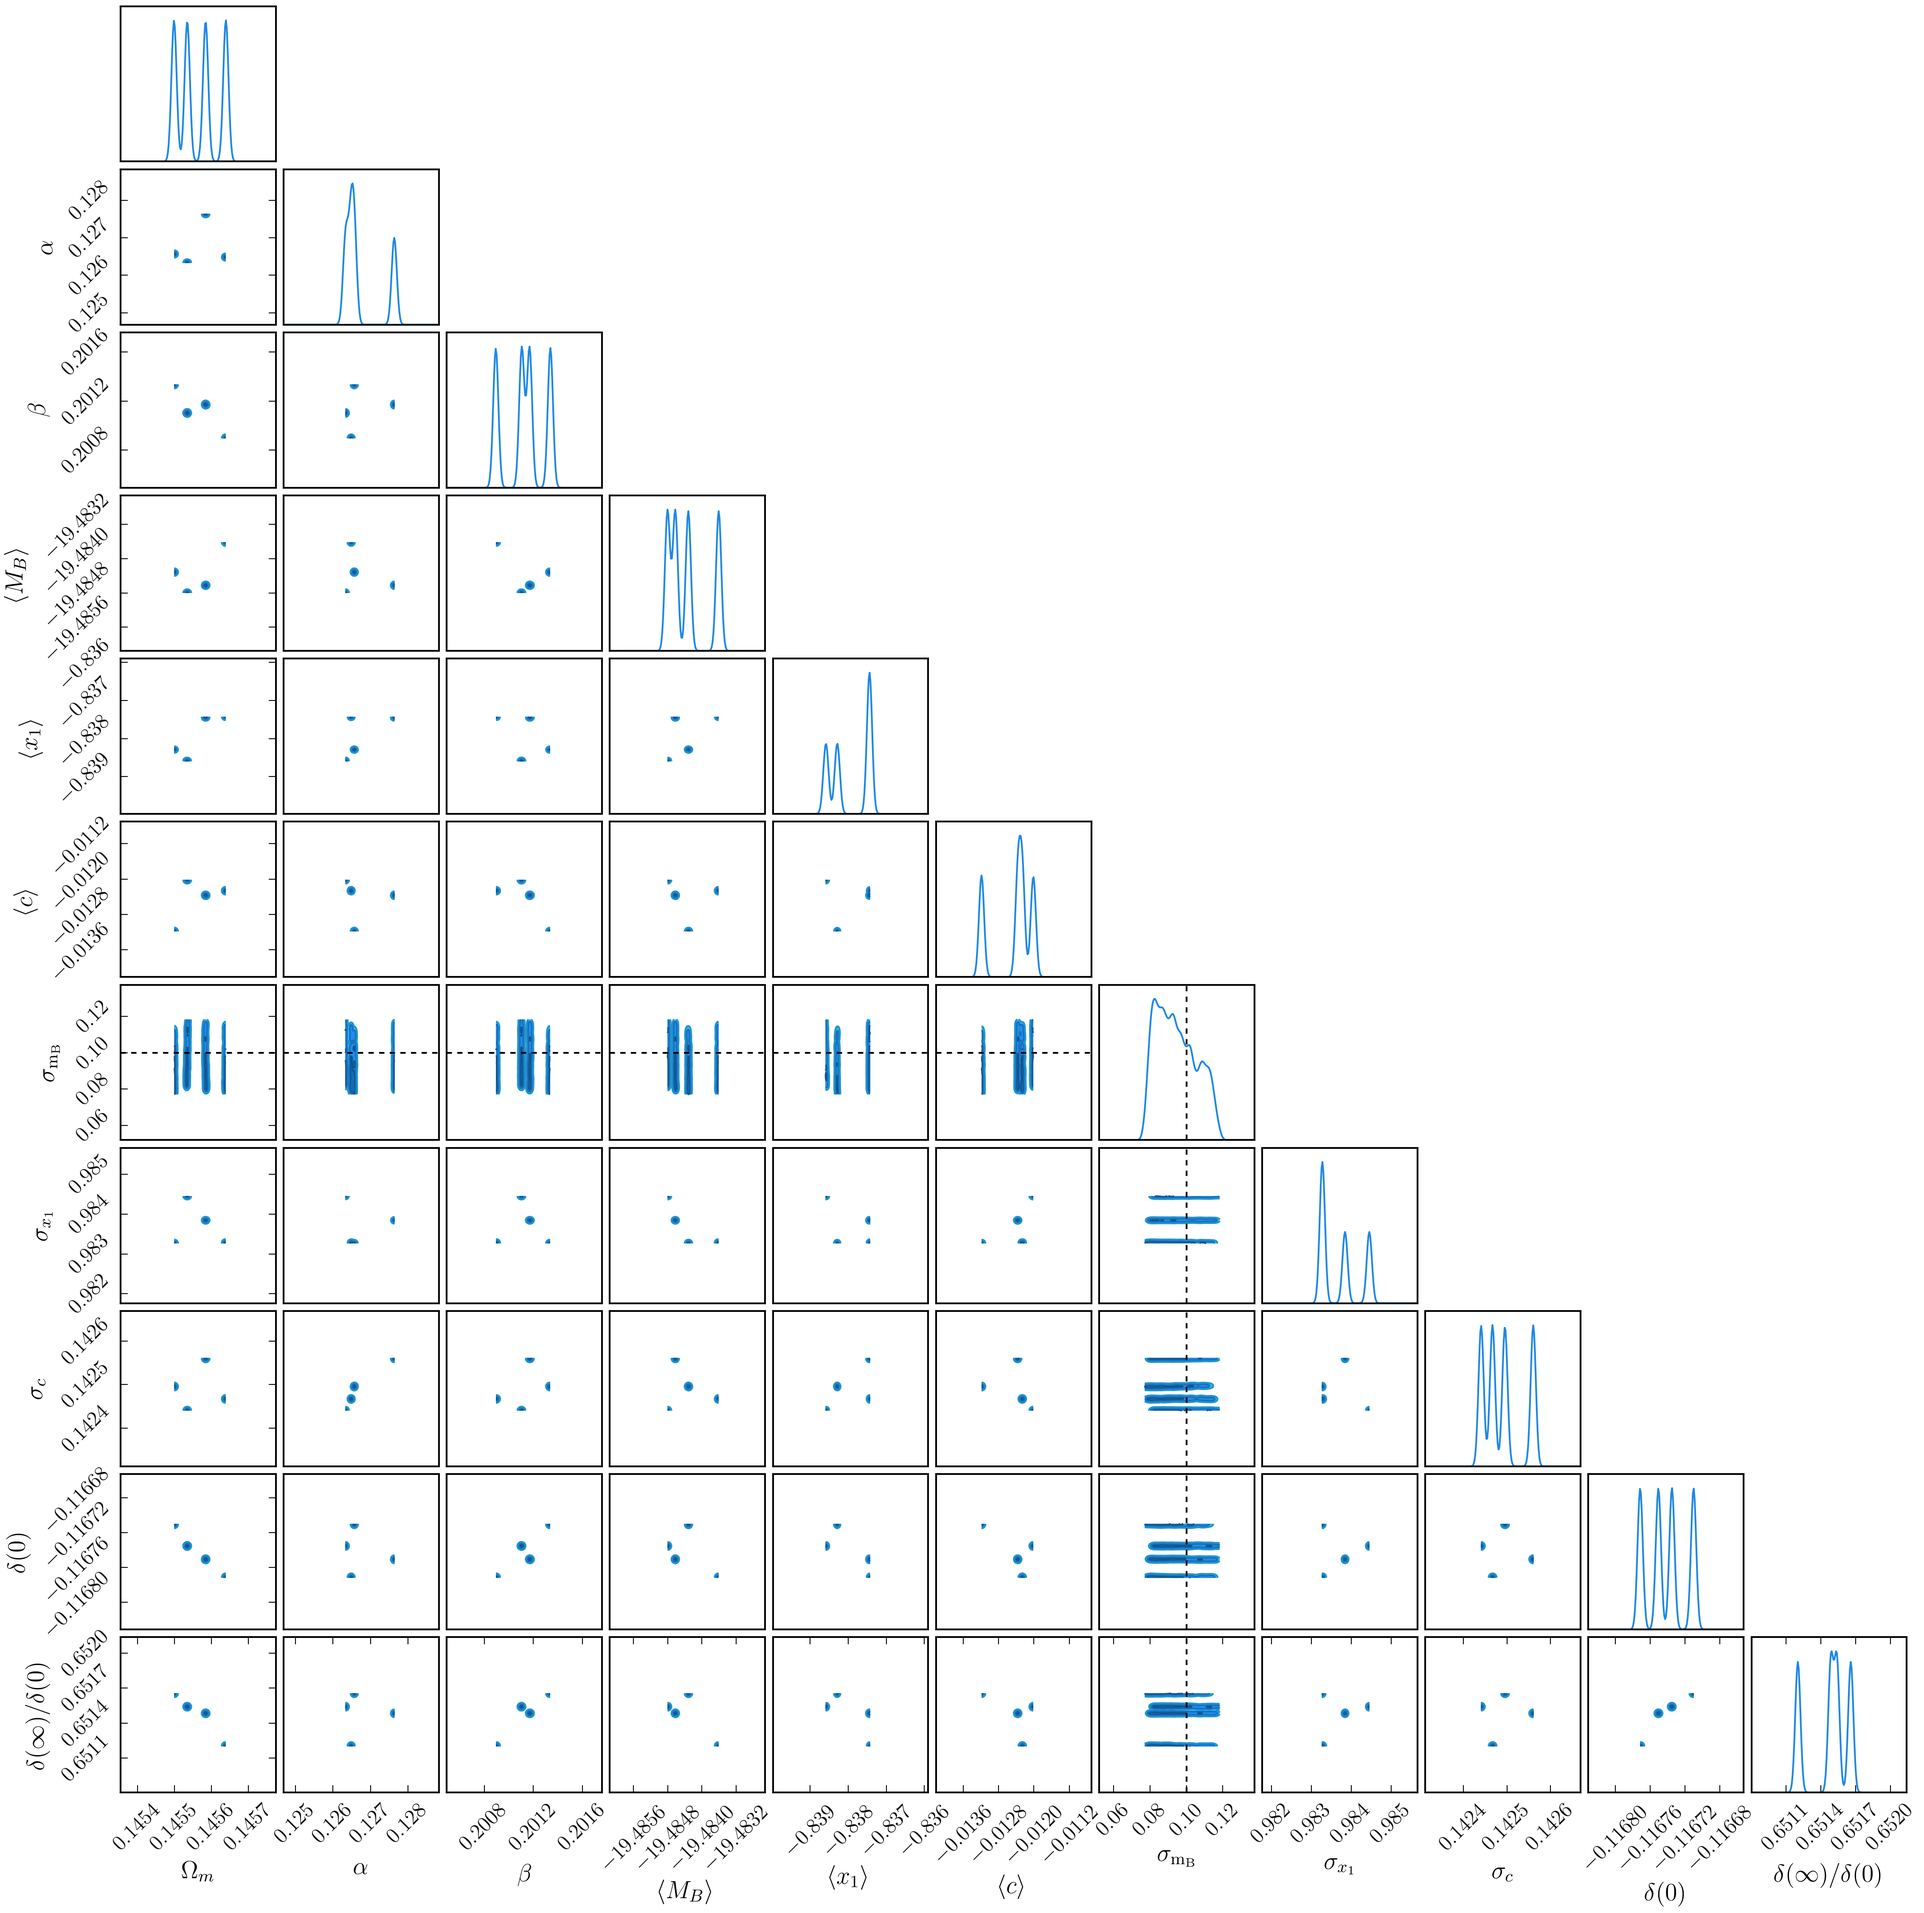
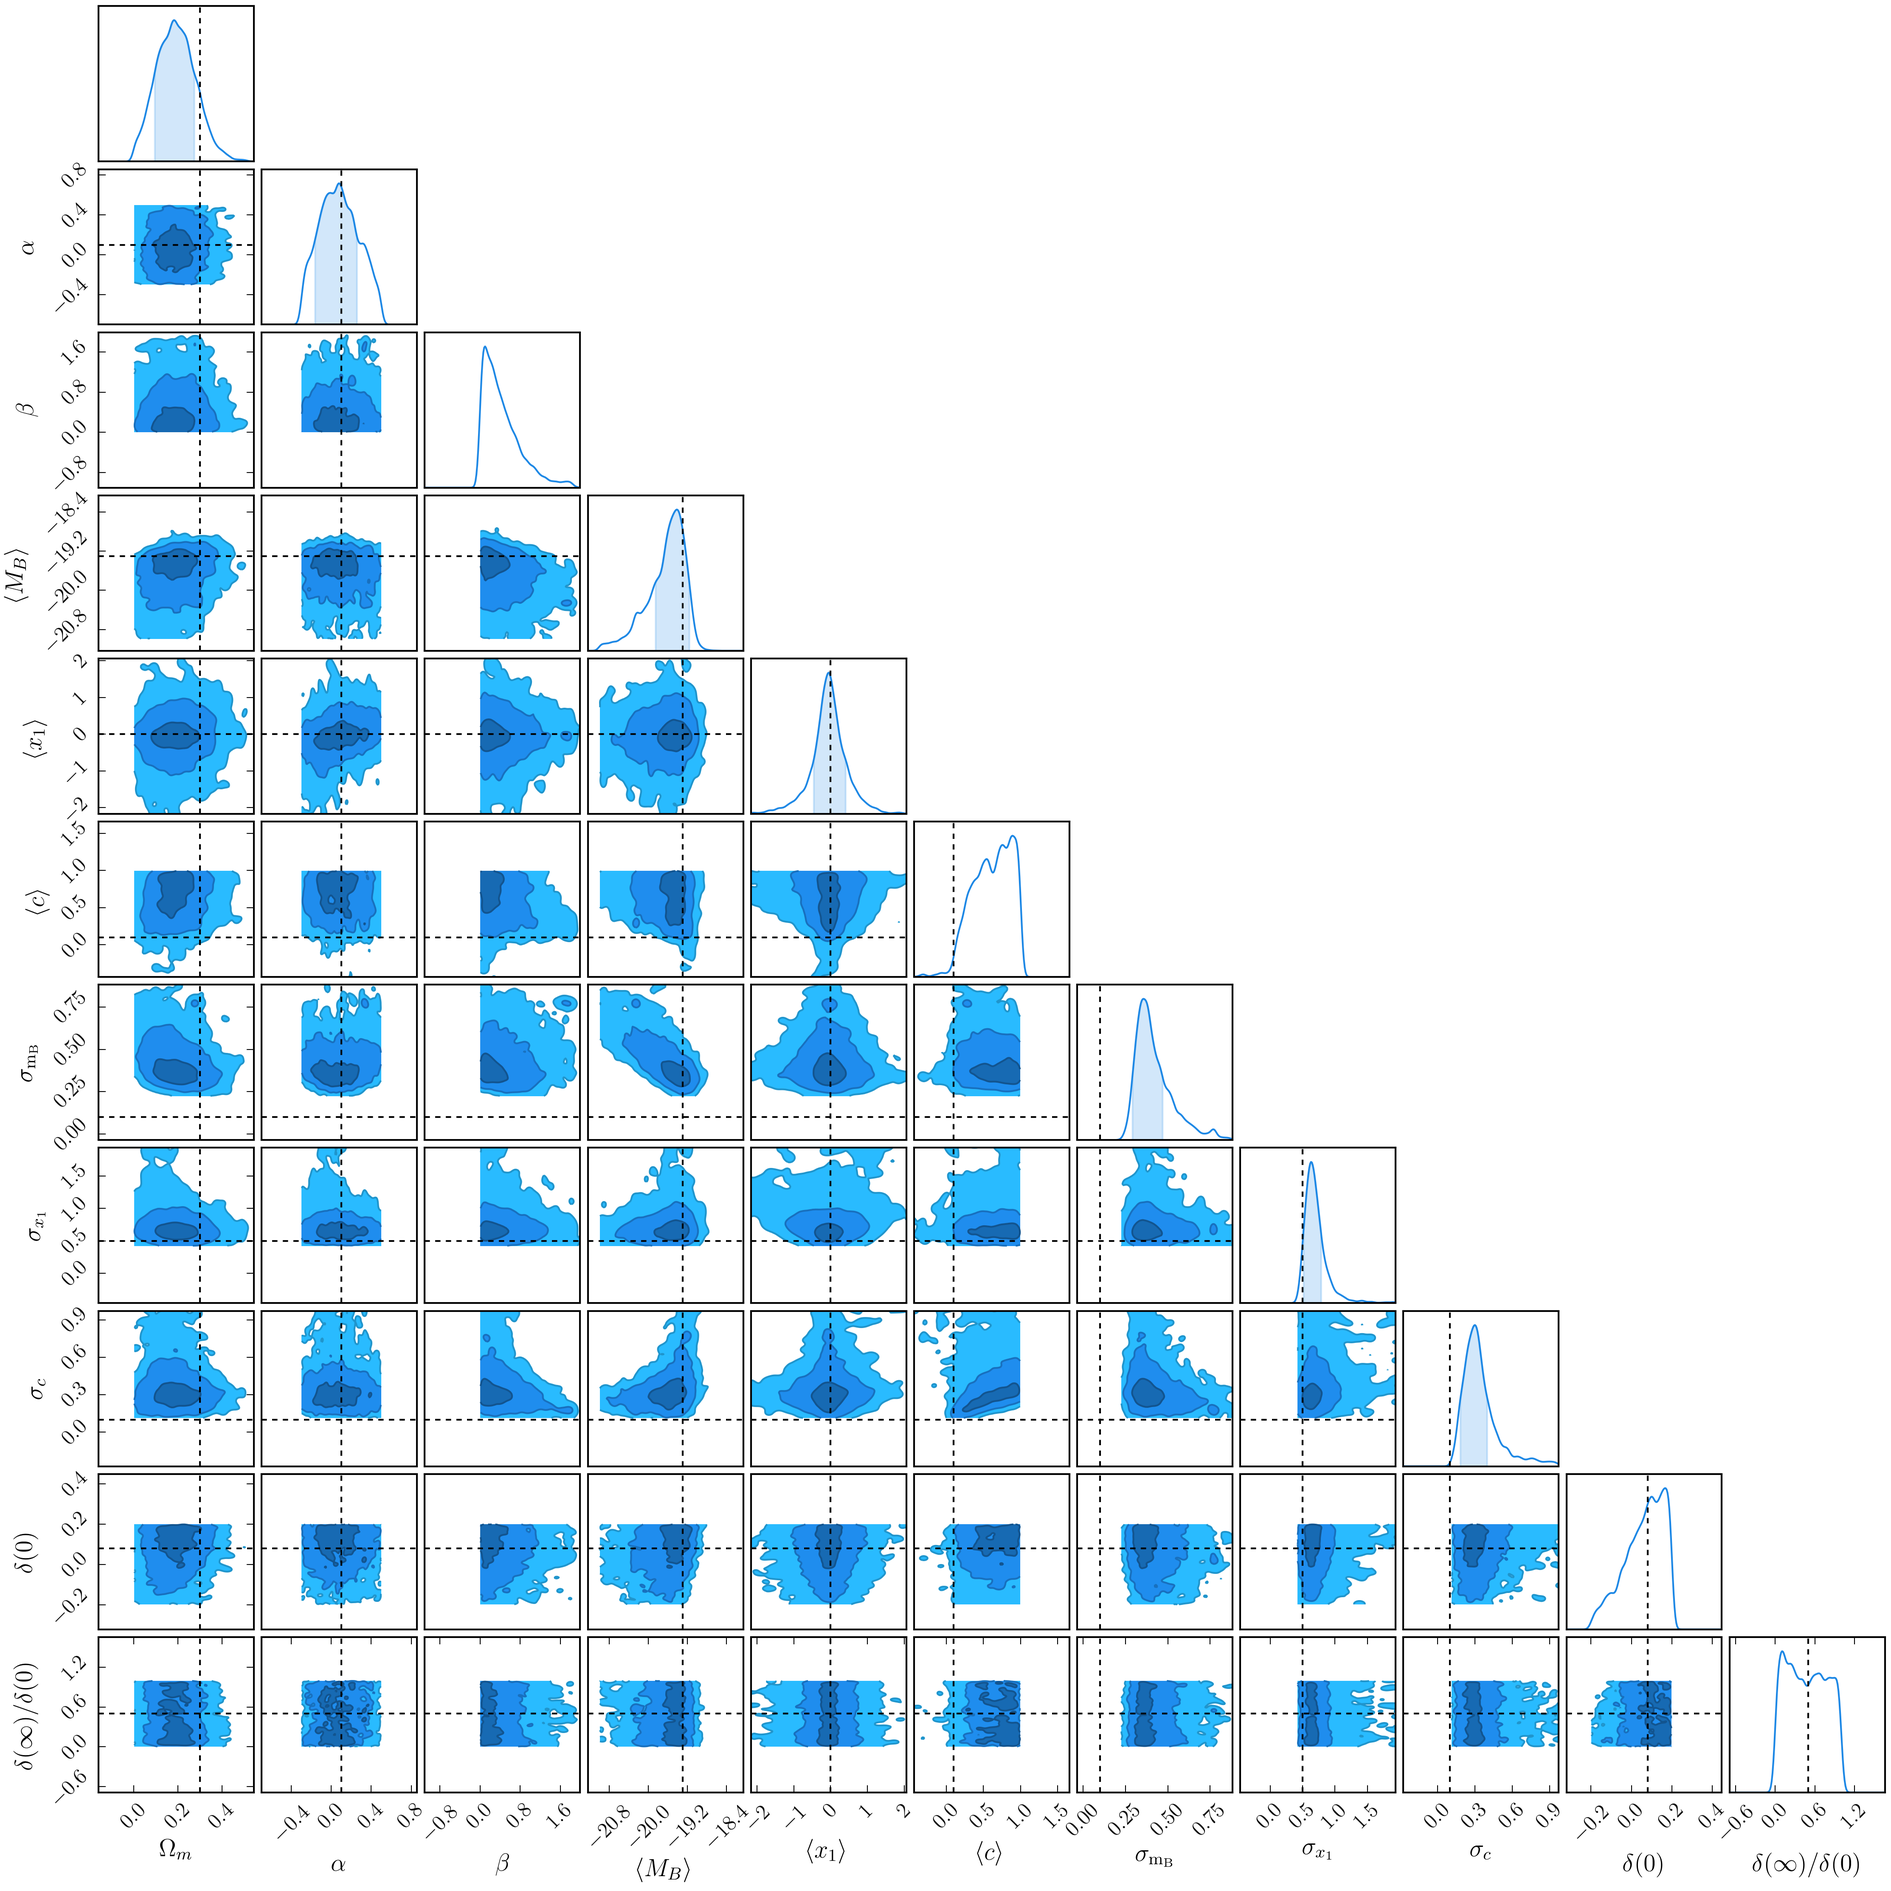
Minor improvements, but still nothing good

Changed region(s): [[0.0, 0.0, 0.9987, 0.9987]]

diff --git a/dessn/models/d_simple_stan/stan_mc/run_stan.py b/dessn/models/d_simple_stan/stan_mc/run_stan.py
@@ -46,7 +46,7 @@ def get_pickle_data(n_sne):
     }
 
 
-def get_simulation_data(n=500):
+def get_simulation_data(n=1000):
     pickle_file = "../output/supernovae2.npy"
     supernovae = np.load(pickle_file)
     mask = supernovae[:, 6] == 1
@@ -56,7 +56,7 @@ def get_simulation_data(n=500):
     supernovae = supernovae[:n, :]
     return {
         "n_sim": n,
-        "sim_mBx1c": supernovae[:, :3],
+        "sim_mBx1c": supernovae[:, 1:4],
         "sim_log_prob": supernovae[:, 7],
         "sim_redshifts": supernovae[:, 5],
         "sim_mass": supernovae[:, 4]
@@ -226,7 +226,7 @@ if __name__ == "__main__":
         import pystan
         t = stan_output_dir + "/stan%d.pkl" % i
         sm = pystan.StanModel(file="model.stan", model_name="Cosmology")
-        fit = sm.sampling(data=data, iter=7000, warmup=5000, chains=1, init=init_fn)
+        fit = sm.sampling(data=data, iter=5000, warmup=3000, chains=1, init=init_fn)
         # Dump relevant chains to file
         print("Saving chain %d" % i)
         with open(t, 'wb') as output:

diff --git a/dessn/models/d_simple_stan/__init__.py b/dessn/models/d_simple_stan/__init__.py
@@ -173,7 +173,7 @@ that a final numerator of:
 
 A rough fit for this, is shown below, for a thousand generated supernova.
 
-.. figure::     ../dessn/models/d_simple_stan/output/plot.png
+.. figure::     ../dessn/models/d_simple_stan/output/plot_full.png
     :align:     center
 
 --------
